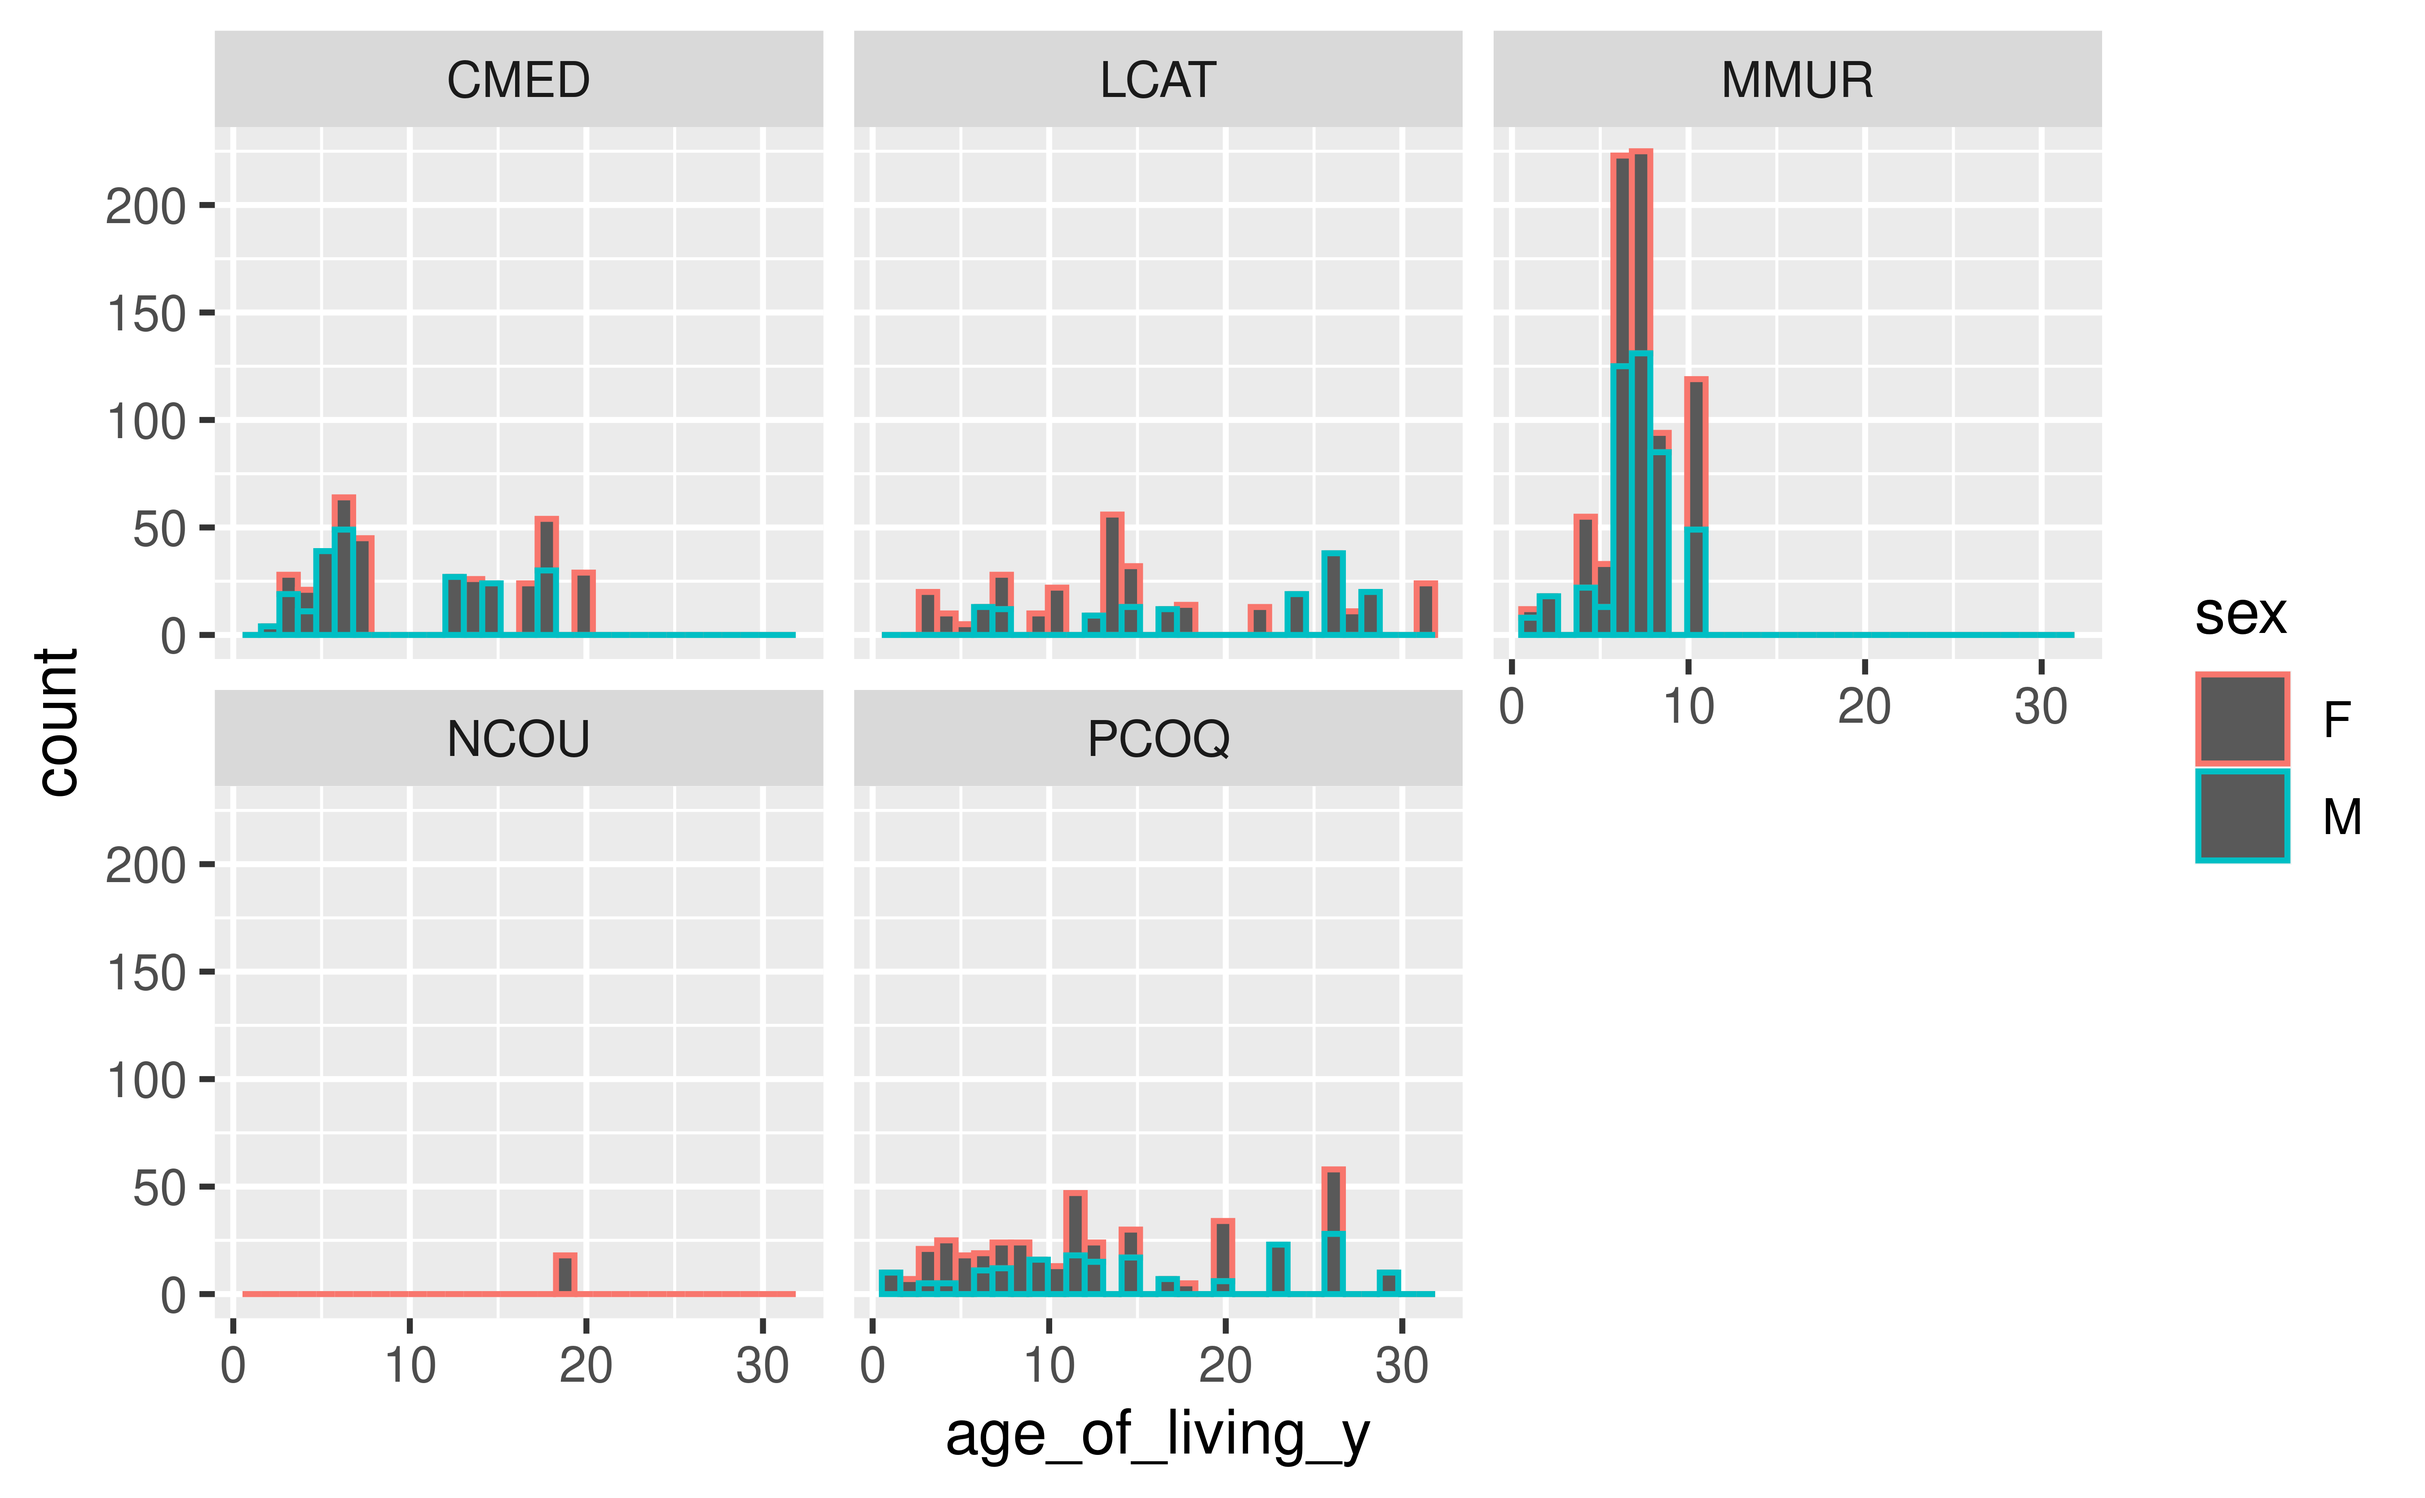
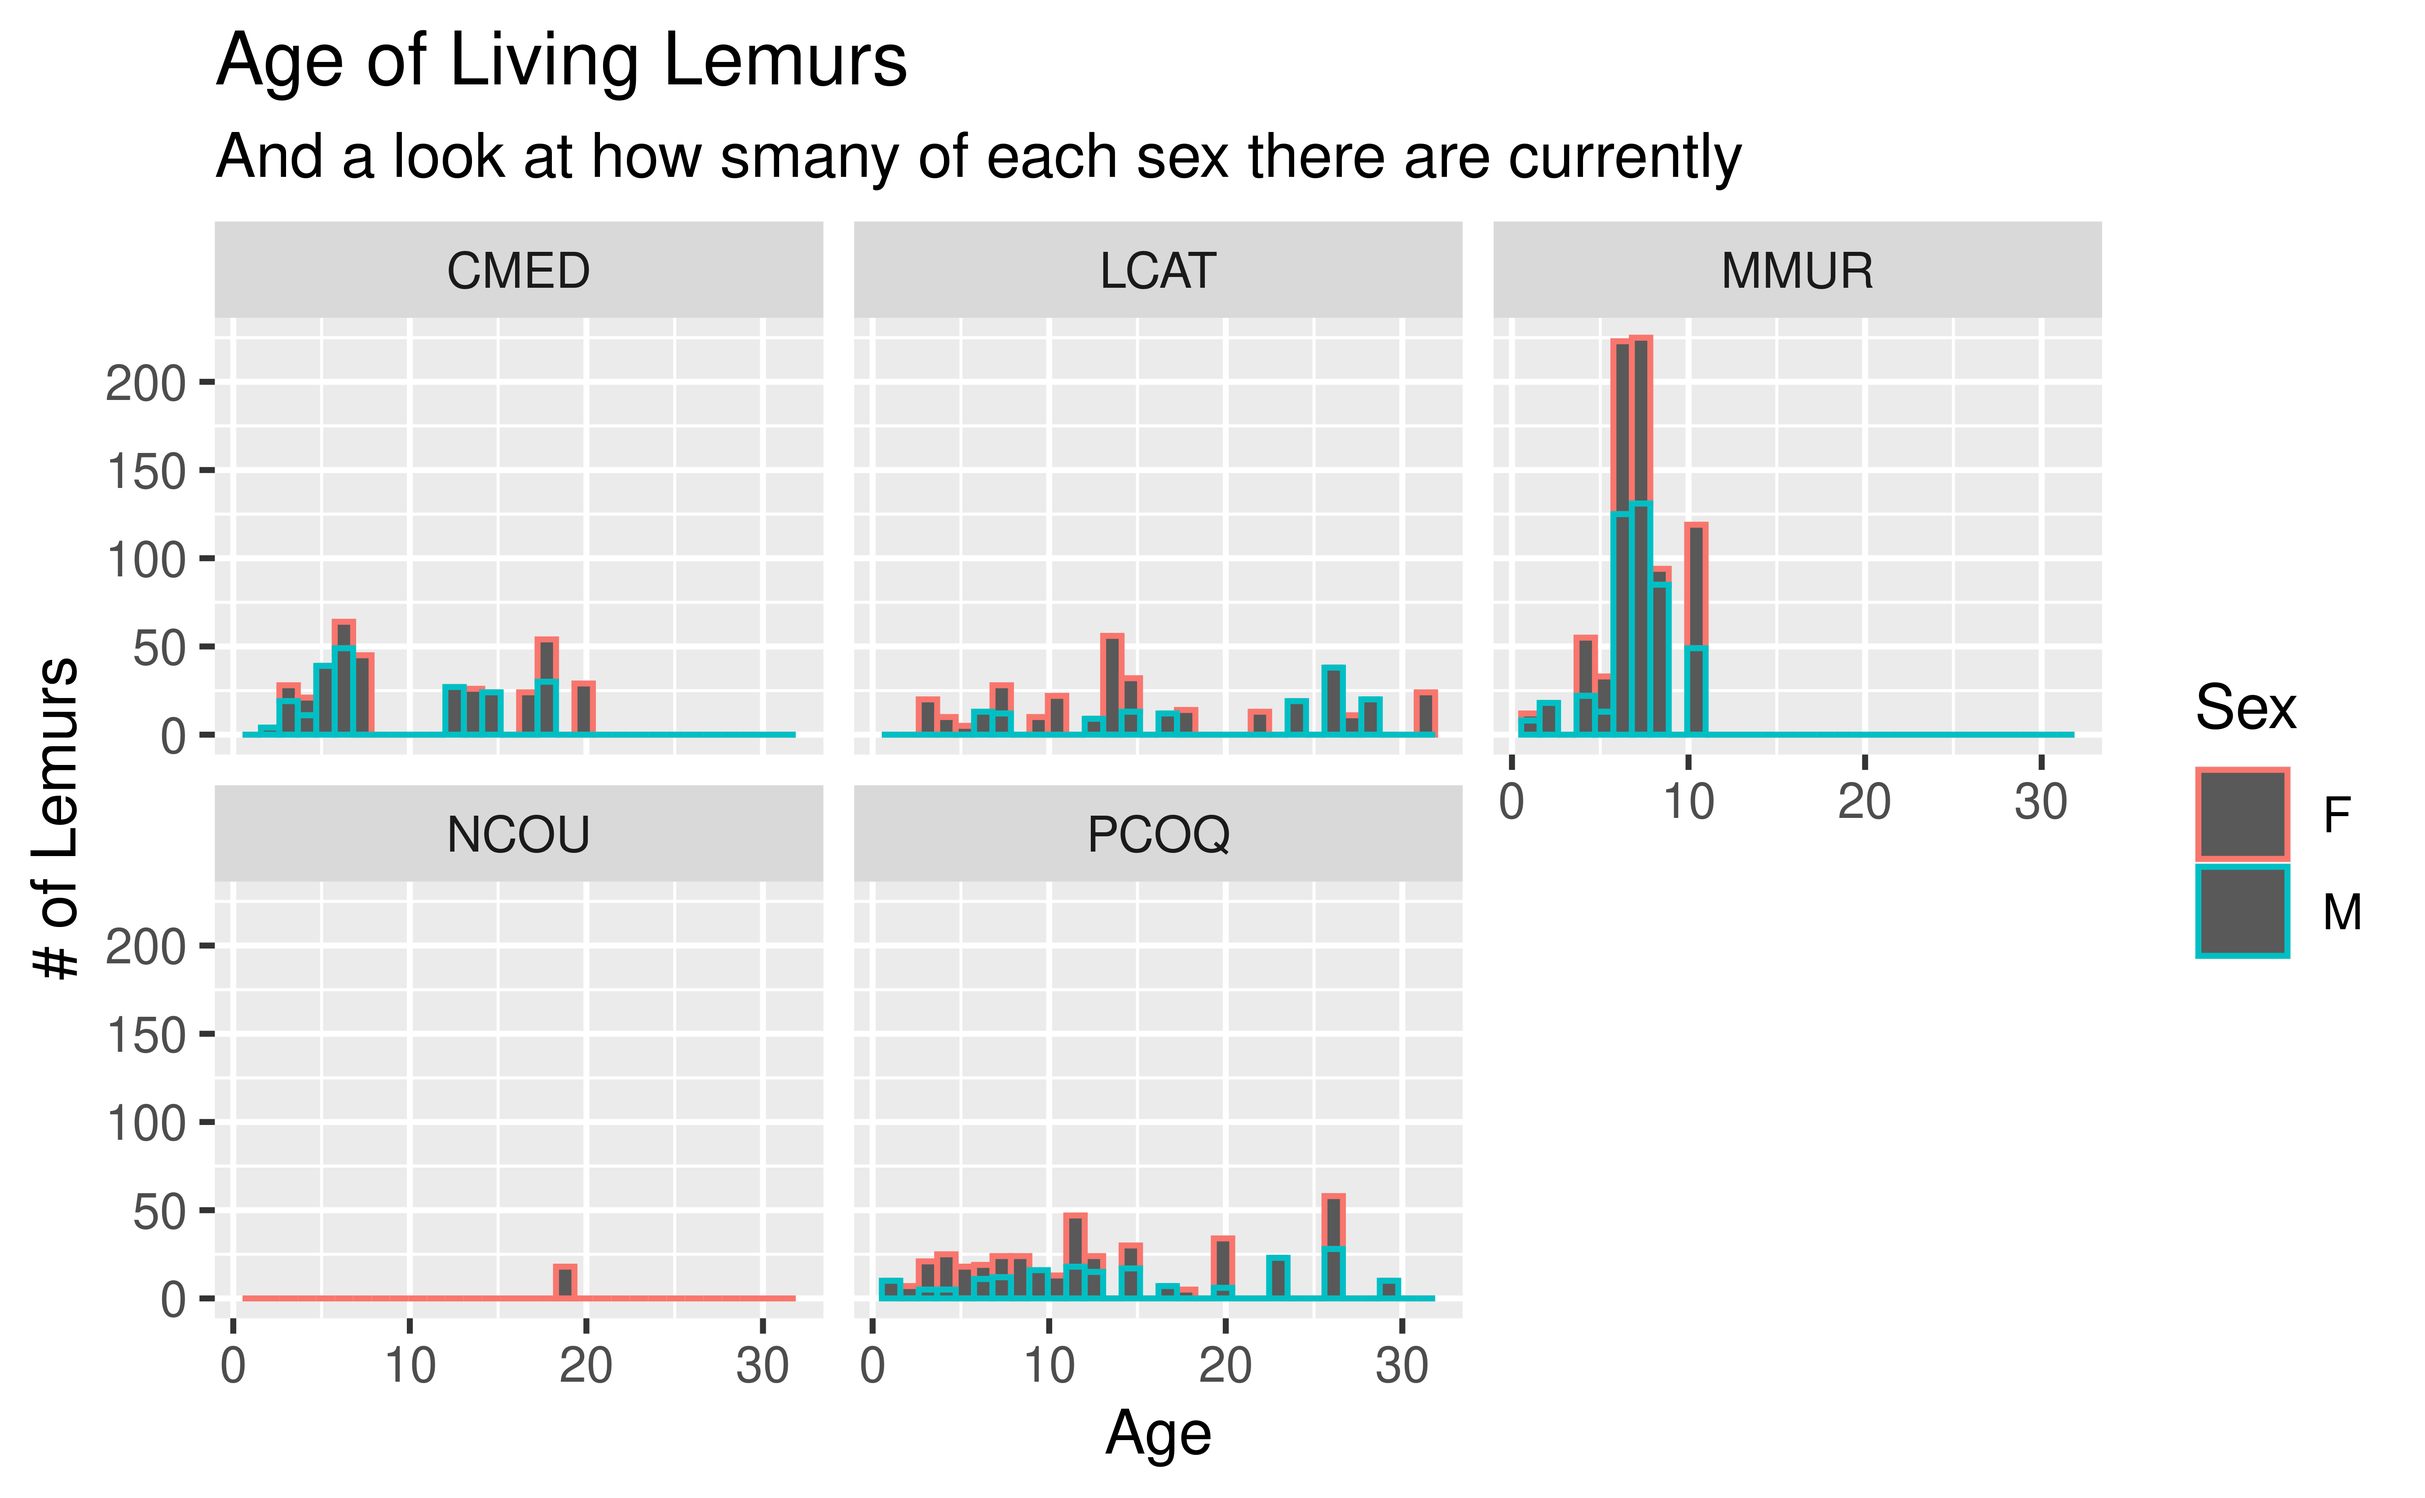
1

diff --git a/project-starter/presentation/presentation.html b/project-starter/presentation/presentation.html
@@ -1,10 +1,10 @@
 <!DOCTYPE html>
 <html lang="" xml:lang="">
   <head>
-    <title>Presentation title</title>
+    <title>The State of Lemurs</title>
     <meta charset="utf-8" />
     <meta name="author" content="The Zoboomafoos" />
-    <meta name="date" content="2021-12-05" />
+    <meta name="date" content="2021-12-09" />
     <script src="libs/header-attrs-2.11/header-attrs.js"></script>
     <link rel="stylesheet" href="xaringan-themer.css" type="text/css" />
   </head>
@@ -12,11 +12,11 @@
     <textarea id="source">
 class: center, middle, inverse, title-slide
 
-# Presentation title
-## Presentation subtitle (if any)
+# The State of Lemurs
+## An exploration into 5 lemur species populations at The Duke Lemur Center
 ### The Zoboomafoos
 ### University of Illinois at Chicago
-### 2021-12-05
+### 2021-12-09
 
 ---
 
@@ -72,33 +72,11 @@ class: center, middle
 
 class: inverse, center, middle
 
-# Section title
+# Data Wrangling 
 
 ---
 
-# Hello World
-
-- Click the `Knit` button to compile your presentation
-
-- Make sure to commit and push all resulting files to your GitHub repo
-
----
-
-class: inverse, middle, center
-
-# Using xaringan
-
----
-
-# xaringan
-
-- The presentation is created using the `xaringan` package
-
-- Use `---` to separate slides and `--` for incremental builds
-
---
-
-- Like this
+# Methods
 
 ---
 
@@ -111,26 +89,53 @@ class: inverse, middle, center
 
 ---
 
-# Code
+# Visual Results
 .pull-left[
-&lt;img src="presentation_files/figure-html/lemur-age-living-1.png" width="200%" /&gt;
+&lt;img src="presentation_files/figure-html/lemur-age-living-1.png" width="100%" /&gt;
 ]
 .pull-right[
-&lt;img src="presentation_files/figure-html/litter-size-1.png" width="200%" /&gt;
+&lt;img src="presentation_files/figure-html/litter-size-1.png" width="100%" /&gt;
+]
+
+---
+# Visual Results
+
+&lt;img src="presentation_files/figure-html/death-age-relationship-1.png" width="80%" /&gt;
+
+---
+
+# Conclusion
+
+--
+
+.pull-left[
+- Lemur populations have been largely grown in captivity due to deforestation and displacement
+]
+
+--
+
+.pull-right[
+- We concentrated our data by focusing on 5 key species of lemurs in our data set
+]
+
+--
+
+.pull-left[
+- Lemur lifespans heavily depends on weight, sex does not play a major determining factor in lifespan
+]
+
+--
+
+.pull-right[
+- A higher litter size usually means a high lifespan as well.
+- Lifespan also depends on weight because smaller lemur species who have a higher litter size will still have a relatively small lifespan. 
 ]
 
 ---
 
-# Feeling adventurous?
 
-- Want to find out more about `xaringan`? See https://slides.yihui.name/xaringan/#1.
+&lt;img src="img/lemur-fractal.jpg" width="100%" style="display: block; margin: auto;" /&gt;
 
-- You are welcomed to use the default styling of the slides. In fact, that's what I expect majority of you will do. You will differentiate yourself with the content of your presentation.
-
-- But some of you might want to play around with slide styling. The 
-`xaringanthemer` provides some solutions for this that: https://pkg.garrickadenbuie.com/xaringanthemer.
-
-- And if you want more bells and whistles, there is also `xaringanExtra`: https://pkg.garrickadenbuie.com/xaringanExtra.
     </textarea>
 <style data-target="print-only">@media screen {.remark-slide-container{display:block;}.remark-slide-scaler{box-shadow:none;}}</style>
 <script src="https://remarkjs.com/downloads/remark-latest.min.js"></script>
